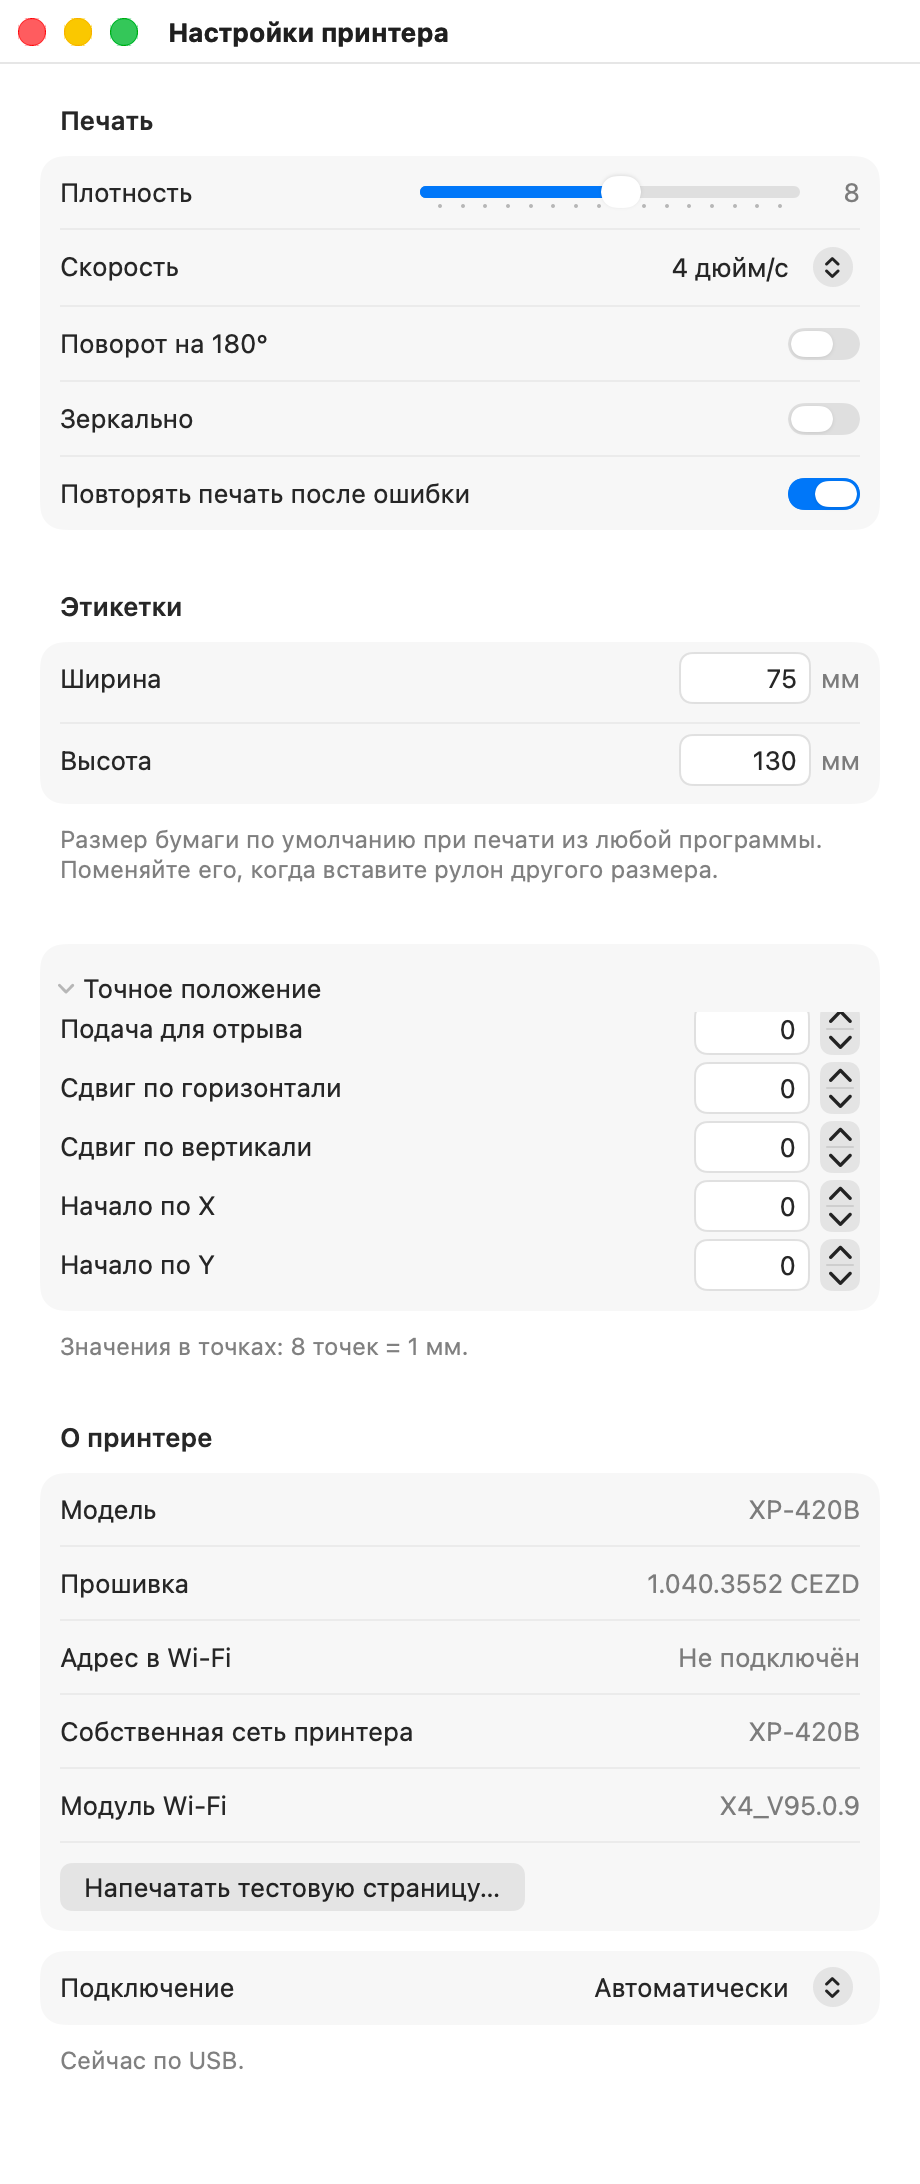
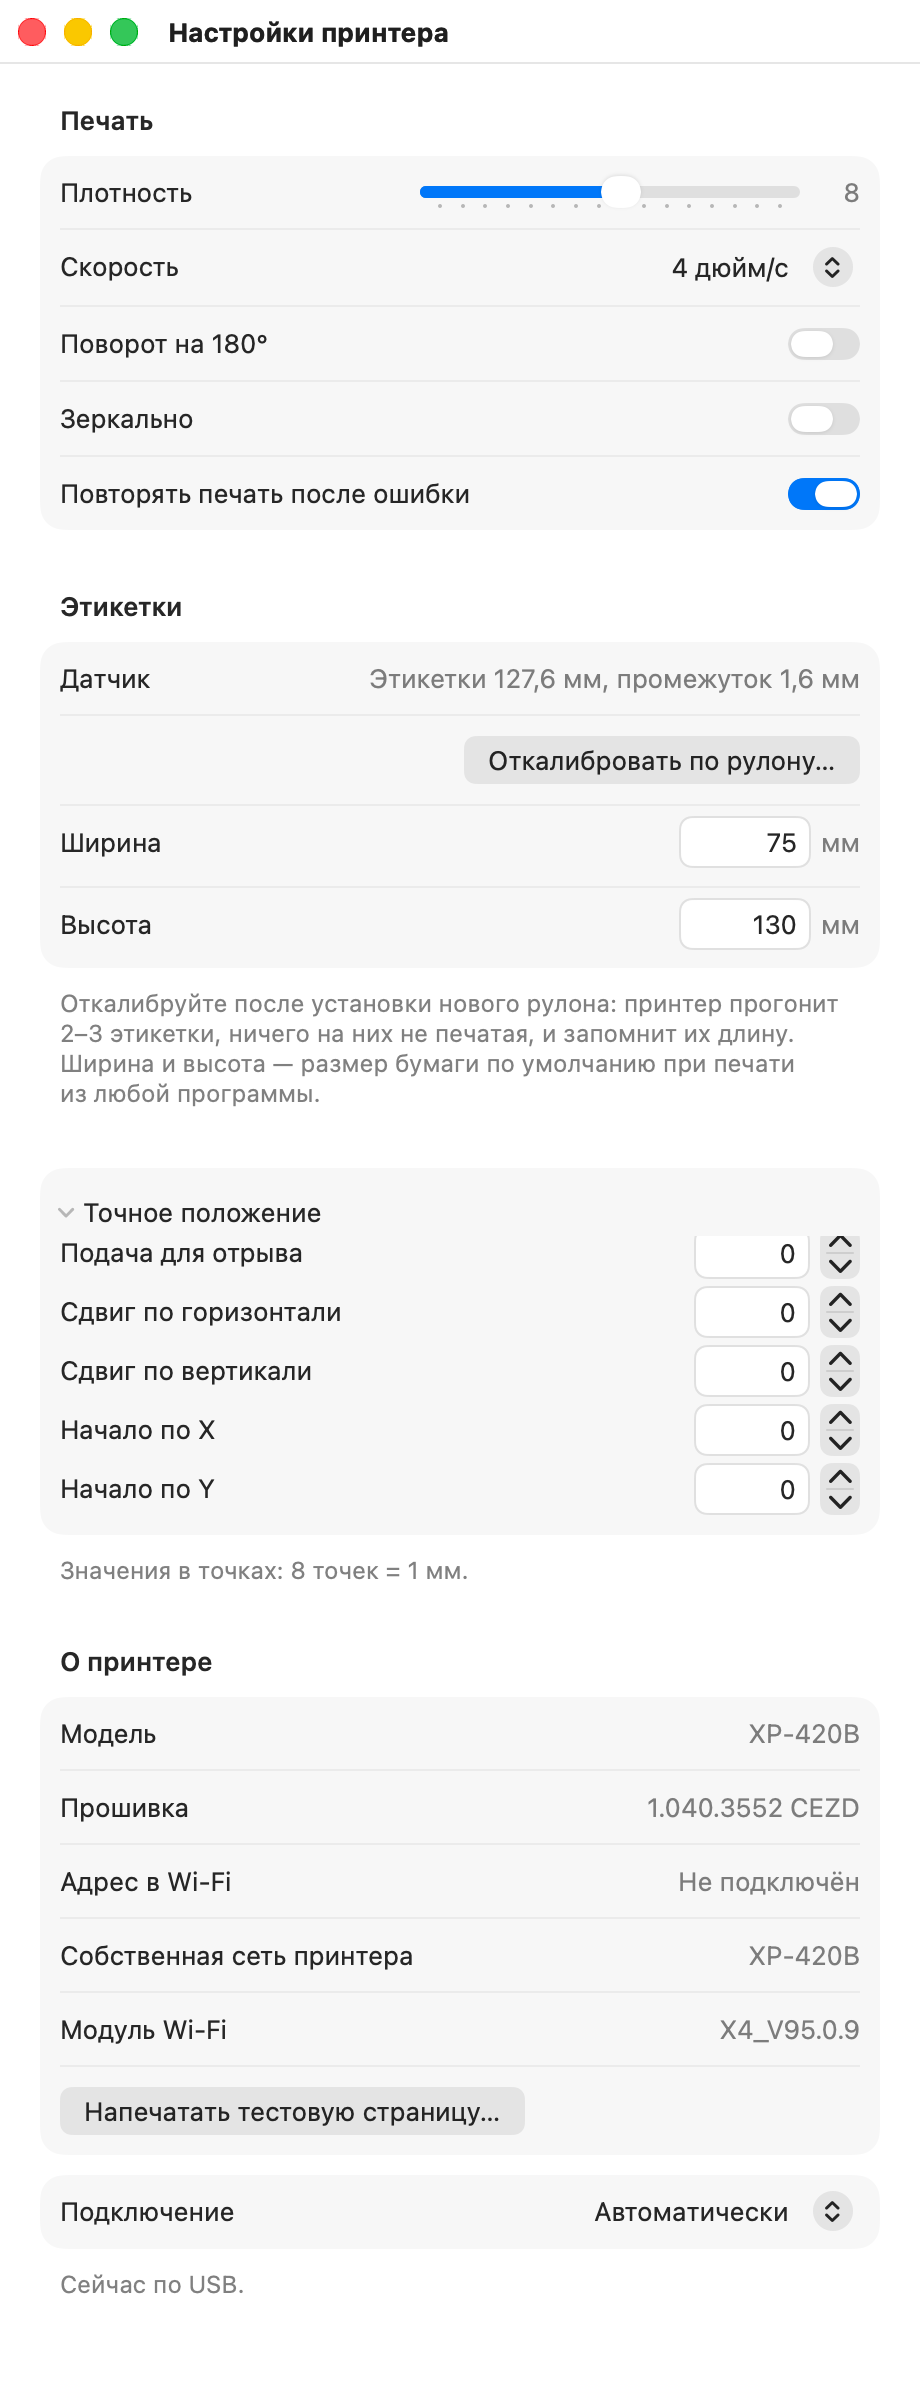
Sensor calibration to the loaded roll (GAPDETECT) and printer status (cover open, out of labels) over USB

diff --git a/Sources/XprinterSetup/SettingsView.swift b/Sources/XprinterSetup/SettingsView.swift
@@ -6,6 +6,7 @@ struct SettingsView: View {
     @EnvironmentObject var printer: PrinterModel
     @State private var density = 8.0
     @State private var confirmTestPage = false
+    @State private var confirmCalibration = false
     @State private var showPosition = Demo.isOn
 
     var body: some View {
@@ -39,6 +40,15 @@ struct SettingsView: View {
                 } header: { Text("Printing", bundle: .module) }
 
                 Section {
+                    LabeledContent {
+                        Text(sensorText(c)).foregroundStyle(.secondary)
+                    } label: { Text("Sensor", bundle: .module) }
+                    HStack {
+                        Spacer()
+                        if printer.calibrating { ProgressView().controlSize(.small) }
+                        Button { confirmCalibration = true } label: { Text("Calibrate to the Roll…", bundle: .module) }
+                            .disabled(!printer.usbPlugged || printer.calibrating)
+                    }
                     if let size = printer.labelSize {
                         mm("Width", size.width, LabelSize.widthRange) { printer.setLabelSize(width: $0, height: size.height) }
                         mm("Height", size.height, LabelSize.heightRange) { printer.setLabelSize(width: size.width, height: $0) }
@@ -48,7 +58,8 @@ struct SettingsView: View {
                 } header: { Text("Labels", bundle: .module) }
                   footer: {
                     VStack(alignment: .leading, spacing: 4) {
-                        Text("The default paper size when you print from any app. Change it when you load a roll of another size.", bundle: .module)
+                        Text("Calibrate after loading a new roll: the printer feeds 2–3 labels without printing on them and learns their length. Width and height below are the default paper size when you print from any app.", bundle: .module)
+                        if !printer.usbPlugged { Text("Calibration needs the USB cable.", bundle: .module) }
                         if let e = printer.labelError { Text(e).foregroundStyle(.red) }
                     }
                     .font(.callout).foregroundStyle(.secondary)
@@ -99,6 +110,11 @@ struct SettingsView: View {
             .scrollDisabled(Demo.isOn)  // screenshots: a non-scrolling form can be snapshotted
             .onAppear { density = Double(c.density ?? 8); printer.refresh(); Task { await printer.loadLabelSize() } }
             .onChange(of: c.density) { density = Double($0 ?? 8) }
+            .confirmationDialog(Text("Calibrate to the loaded roll?", bundle: .module), isPresented: $confirmCalibration) {
+                Button { printer.calibrate() } label: { Text("Calibrate", bundle: .module) }
+            } message: {
+                Text("The printer feeds 2–3 labels and prints nothing on them.", bundle: .module)
+            }
             .confirmationDialog(Text("Print a test page?", bundle: .module), isPresented: $confirmTestPage) {
                 Button { printer.printSelfTest() } label: { Text("Print", bundle: .module) }
             } message: {
@@ -114,6 +130,19 @@ struct SettingsView: View {
             .frame(maxWidth: .infinity, maxHeight: .infinity)
         }
     }
+
+    private func sensorText(_ c: PrinterConfig) -> String {
+        switch c.sensor {
+        case .gap:
+            guard let l = c.labelLengthMM, let g = c.gapMM else { return loc("Labels with gaps") }
+            return String(format: loc("Labels with gaps: %@ mm, gap %@ mm"), mmText(l), mmText(g))
+        case .blackMark: return loc("Black mark")
+        case .continuous: return loc("Continuous paper — not calibrated")
+        case nil: return "—"
+        }
+    }
+
+    private func mmText(_ v: Double) -> String { v.formatted(.number.precision(.fractionLength(0...1))) }
 
     private func info(_ title: String.LocalizationValue, _ value: String?) -> some View {
         LabeledContent { Text(value ?? "—").textSelection(.enabled) } label: { Text(loc(title)) }

diff --git a/Sources/XprinterSetup/PrinterModel.swift b/Sources/XprinterSetup/PrinterModel.swift
@@ -63,6 +63,9 @@ final class PrinterModel: ObservableObject {
     @Published var notResponding = false
     /// Printer on USB reports a Wi-Fi address, but nothing answers there: the module dropped off the network.
     @Published var wifiDown = false
+    /// Cover / paper state, read over USB only.
+    @Published var status: PrinterStatus?
+    @Published var calibrating = false
     private var recheck = true  // check the network once at launch
     nonisolated(unsafe) private static var searchedOnce = false  // touched only from findOnNetwork, one call at a time
     private var polling: Task<Void, Never>?
@@ -98,6 +101,7 @@ final class PrinterModel: ObservableObject {
                         link = .usb
                         await reload()
                         notResponding = config == nil
+                        status = try? await Self.background { try Xprinter.status() }
                         // only opens a connection, no reply needed from the module
                         if let ip = config?.wifiIP { wifiDown = !(await Self.background { NetworkPrinter.isReachable(ip) }) } else { wifiDown = false }
                     }
@@ -105,8 +109,10 @@ final class PrinterModel: ObservableObject {
                     if link != nil { link = nil; config = nil }
                     notResponding = false
                     wifiDown = false
+                    status = nil
                 } else if link == .usb || recheck {
                     wifiDown = false  // only known (and fixable) with the cable
+                    status = nil
                     if case .network(let host)? = link, config != nil, !deepCheck {
                         let there = await Self.background { NetworkPrinter.isReachable(host) }
                         if !there { link = nil; config = nil }
@@ -270,6 +276,34 @@ final class PrinterModel: ObservableObject {
     }
 
     func printSelfTest() { apply(XprinterCommand.selfTest) }
+
+    /// Calibrates the sensor to the loaded roll (USB only): feeds 2-3 labels without printing.
+    func calibrate() {
+        guard !Demo.isOn, usbPlugged else { return }
+        Task {
+            settingsError = nil
+            let before = try? await Self.background { try Xprinter.status() }
+            if let before, !before.isReady {
+                status = before
+                settingsError = before.contains(.coverOpen) ? loc("Close the printer cover first.")
+                    : before.contains(.paperOut) ? loc("Load the label roll first.") : loc("The printer is busy. Try again in a moment.")
+                return
+            }
+            calibrating = true
+            defer { calibrating = false }
+            do {
+                try await Self.background { try USBPrinter.send(XprinterCommand.calibrateGapLabels) }
+                try? await Task.sleep(nanoseconds: 2_000_000_000)
+                for _ in 0..<30 {  // wait until the feed is over
+                    if let s = try? await Self.background({ try Xprinter.status() }), s.isReady { break }
+                    try? await Task.sleep(nanoseconds: 1_000_000_000)
+                }
+                await reload()
+            } catch {
+                settingsError = error.localizedDescription
+            }
+        }
+    }
 
     /// Soft restart over USB ("Reset Printer"). Settings are kept; Wi-Fi comes back about 10 s later.
     func restartPrinter() { restart(XprinterCommand.restartPrinter, wait: 15) }

diff --git a/Sources/XprinterKit/USBPrinter.swift b/Sources/XprinterKit/USBPrinter.swift
@@ -20,6 +20,18 @@ public enum USBPrinter {
 
     /// Sends `data` and collects the reply until `terminator` appears or `timeout` passes.
     public static func exchange(_ data: Data, until terminator: String? = nil, timeout: TimeInterval = 3) throws -> String {
+        let reply = try exchangeData(data, timeout: timeout) { reply in
+            terminator.map { String(decoding: reply, as: UTF8.self).contains($0) } ?? true
+        }
+        return String(decoding: reply, as: UTF8.self)
+    }
+
+    /// Raw variant for binary replies (status byte).
+    public static func exchangeData(_ data: Data, minBytes: Int, timeout: TimeInterval) throws -> Data {
+        try exchangeData(data, timeout: timeout) { $0.count >= minBytes }
+    }
+
+    static func exchangeData(_ data: Data, timeout: TimeInterval, done: (Data) -> Bool) throws -> Data {
         guard let svc = service() else { throw NotConnected() }
         defer { IOObjectRelease(svc) }
         let intf = try IOUSBHostInterface(__ioService: svc, options: [], queue: nil, interestHandler: nil)
@@ -36,14 +48,13 @@ public enum USBPrinter {
 
         var sent = 0
         try out.__sendIORequest(with: NSMutableData(data: data), bytesTransferred: &sent, completionTimeout: 5)
-        guard let terminator else { return "" }
 
         var reply = Data()
         let deadline = Date().addingTimeInterval(timeout)
-        while Date() < deadline, !String(decoding: reply, as: UTF8.self).contains(terminator) {
+        while !done(reply), Date() < deadline {
             reply += read(0.3)
         }
-        return String(decoding: reply, as: UTF8.self)
+        return reply
     }
 
     public static func send(_ data: Data) throws { _ = try exchange(data) }

diff --git a/Tests/XprinterKitTests/XprinterKitTests.swift b/Tests/XprinterKitTests/XprinterKitTests.swift
@@ -73,6 +73,18 @@ final class XprinterKitTests: XCTestCase {
         XCTAssertEqual(w.offset, -2); XCTAssertEqual(w.shiftY, 3)
     }
 
+    func testStatusAndSensor() {
+        XCTAssertTrue(PrinterStatus(rawValue: 0).isReady)
+        XCTAssertEqual(PrinterStatus(rawValue: 0x01), .coverOpen)  // seen on an XP-420B with the cover open
+        XCTAssertTrue(PrinterStatus(rawValue: 0x05).contains(.paperOut))
+        let gap = PrinterConfig(report: "Sensor Mode: GAP\nPaper Size: 1021.0\nGap Size: 13.0")  // after GAPDETECT
+        XCTAssertEqual(gap.sensor, .gap)
+        XCTAssertEqual(gap.labelLengthMM, 127.625)
+        XCTAssertEqual(gap.gapMM, 1.625)
+        XCTAssertEqual(PrinterConfig(report: "Sensor Mode: CONTINUOUS(T)").sensor, .continuous)
+        XCTAssertEqual(String(decoding: XprinterCommand.calibrateGapLabels, as: UTF8.self), "GAPDETECT\r\n")
+    }
+
     func testOkReply() {
         XCTAssertEqual(PrinterConfig.okValue("+OK=192.168.1.50\r\nXPSETUP-END\r\n"), "192.168.1.50")
         XCTAssertNil(PrinterConfig.okValue("garbage"))
@@ -125,6 +137,7 @@ final class XprinterKitTests: XCTestCase {
         XCTAssertNotNil(c.density)
         print("LIVE model=\(c.model ?? "-") fw=\(c.firmware ?? "-") density=\(c.density ?? -1) speed=\(c.speed ?? -1) wifi=\(c.wifiIP ?? "-")")
         print("LIVE wifiIP=\(try Xprinter.wifiIP() ?? "-")")
+        print("LIVE status=\(String(describing: try Xprinter.status()))")
     }
 
     /// Read-only check over Wi-Fi: XPRINTER_LIVE_IP=a.b.c.d swift test

diff --git a/Sources/XprinterKit/Commands.swift b/Sources/XprinterKit/Commands.swift
@@ -17,6 +17,13 @@ public enum XprinterCommand {
     public static let readWiFiIP = cmd("WIFI GETIP\r\nOUT \"\(end)\"")
     public static let selfTest = cmd("SELFTEST")
 
+    /// Feeds 2-3 labels without printing, measures label and gap length and switches the sensor to gap labels.
+    /// Same command as the vendor tool's "Calibrate Sensor" for labels with gaps.
+    public static let calibrateGapLabels = cmd("GAPDETECT")
+
+    /// Immediate status query (answered even while the printer is busy): one byte, see `PrinterStatus`.
+    public static let status = Data([27, 33, 63])
+
     /// Restarts only the Wi-Fi module; it rejoins the saved network in a few seconds. Settings are kept.
     public static let restartWiFi = cmd("WIFI RESET")
 
@@ -68,6 +75,12 @@ public enum Xprinter {
     }
 
     public static func send(_ data: Data, via link: PrinterLink) throws { _ = try exchange(link, data) }
+
+    /// Printer status over USB (over Wi-Fi every reply costs, see NetworkPrinter).
+    public static func status() throws -> PrinterStatus? {
+        lock.lock(); defer { lock.unlock() }
+        return try USBPrinter.exchangeData(XprinterCommand.status, minBytes: 1, timeout: 1).last.map { PrinterStatus(rawValue: $0) }
+    }
 
     public static func config(via link: PrinterLink = .usb) throws -> PrinterConfig {
         PrinterConfig(report: try exchange(link, XprinterCommand.readConfig, until: XprinterCommand.end, timeout: 6))

diff --git a/Sources/XprinterKit/PrinterConfig.swift b/Sources/XprinterKit/PrinterConfig.swift
@@ -51,6 +51,19 @@ public struct PrinterConfig: Equatable {
     public var wifiModule: String? { values["Wifi Versions"] }
     public var accessPointName: String? { values["Wifi Name"] }
 
+    public enum Sensor: Equatable { case gap, blackMark, continuous }
+    /// "GAP", "BLINE…" or "CONTINUOUS(T)".
+    public var sensor: Sensor? {
+        guard let m = values["Sensor Mode"]?.uppercased() else { return nil }
+        if m.hasPrefix("GAP") { return .gap }
+        if m.hasPrefix("BLINE") || m.contains("MARK") { return .blackMark }
+        if m.hasPrefix("CONTINUOUS") { return .continuous }
+        return nil
+    }
+    /// Label length and gap measured by calibration, in mm (203 dpi: 8 dots = 1 mm).
+    public var labelLengthMM: Double? { values["Paper Size"].flatMap(Double.init).map { $0 / 8 } }
+    public var gapMM: Double? { values["Gap Size"].flatMap(Double.init).map { $0 / 8 } }
+
     /// Value of a "+OK=value" reply.
     public static func okValue(_ reply: String) -> String? {
         guard let r = reply.range(of: "+OK=") else { return nil }

diff --git a/Sources/XprinterSetup/SetupView.swift b/Sources/XprinterSetup/SetupView.swift
@@ -61,6 +61,12 @@ struct SetupView: View {
         } else if printer.config == nil {
             Text("Connect the printer with a USB cable, or turn it on if it is already set up on Wi-Fi.", bundle: .module)
                 .multilineTextAlignment(.center).padding(.horizontal, 32)
+        } else if let s = printer.status, s.contains(.coverOpen) {
+            dot(.orange) { Text("Cover is open", bundle: .module) }
+        } else if let s = printer.status, s.contains(.paperOut) {
+            dot(.orange) { Text("Out of labels", bundle: .module) }
+        } else if let s = printer.status, s.contains(.paperJam) {
+            dot(.orange) { Text("Paper jam", bundle: .module) }
         } else if printer.config?.wifiIP == nil {
             dot(.secondary) { Text("Not on Wi-Fi", bundle: .module) }
         } else if printer.wifiDown {

diff --git a/Sources/XprinterKit/PrinterStatus.swift b/Sources/XprinterKit/PrinterStatus.swift
@@ -1,0 +1,15 @@
+import Foundation
+
+/// Status byte of `ESC ! ?` (TSPL). "Cover open" was checked on an XP-420B (0x01); the other bits follow TSPL.
+public struct PrinterStatus: OptionSet, Equatable, Sendable {
+    public let rawValue: UInt8
+    public init(rawValue: UInt8) { self.rawValue = rawValue }
+
+    public static let coverOpen = PrinterStatus(rawValue: 0x01)
+    public static let paperJam = PrinterStatus(rawValue: 0x02)
+    public static let paperOut = PrinterStatus(rawValue: 0x04)
+    public static let paused = PrinterStatus(rawValue: 0x10)
+    public static let printing = PrinterStatus(rawValue: 0x20)
+
+    public var isReady: Bool { isEmpty }
+}

diff --git a/Sources/XprinterSetup/App.swift b/Sources/XprinterSetup/App.swift
@@ -28,7 +28,7 @@ struct XprinterSetupApp: App {
             SettingsView()
                 .environmentObject(printer)
                 .frame(width: 460)
-                .frame(minHeight: Demo.isOn ? 1060 : 420)
+                .frame(minHeight: Demo.isOn ? 1160 : 420)
         }
         .windowResizability(.contentSize)
     }

diff --git a/Sources/XprinterSetup/Demo.swift b/Sources/XprinterSetup/Demo.swift
@@ -19,6 +19,9 @@ enum Demo {
         Wifi Sta Ip: \(ip)
         Wifi Versions: X4_V95.0.9
         Density: 8.0
+        Sensor Mode: GAP
+        Paper Size: 1021.0
+        Gap Size: 13.0
         Speed: 4 Inch
         Direction: 0
         Mirror: OFF
